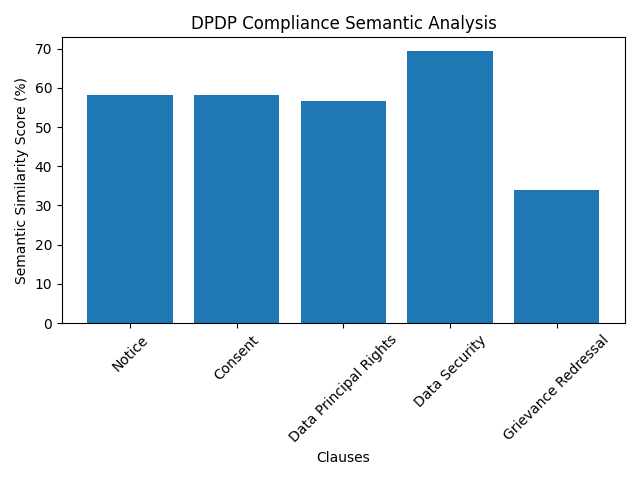
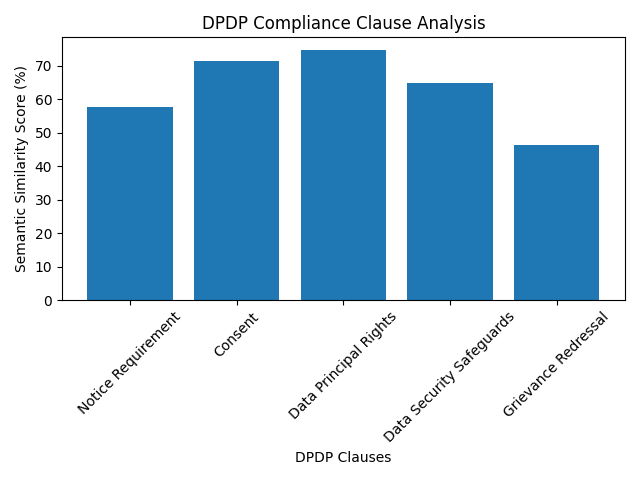
Completed backend architecture: added environment config, dataset-driven scoring, logging system, and production-ready structure

diff --git a/app/services/scoring_engine.py b/app/services/scoring_engine.py
@@ -1,27 +1,39 @@
 import matplotlib
 matplotlib.use("Agg")
 
+import os
+import json
+import numpy as np
+import matplotlib.pyplot as plt
 from sentence_transformers import SentenceTransformer
 from sklearn.metrics.pairwise import cosine_similarity
-import matplotlib.pyplot as plt
-import numpy as np
-import os
+
+from app.core.config import settings
 
 
-# Load lightweight semantic model
-model = SentenceTransformer("all-MiniLM-L6-v2")
+# ==============================
+# Load Semantic Model (from .env)
+# ==============================
+model = SentenceTransformer(settings.MODEL_NAME)
 
 
-DPDP_CLAUSES = {
-    "Notice": "The data fiduciary must provide clear notice before collecting personal data.",
-    "Consent": "Personal data must be collected only after obtaining free and informed consent.",
-    "Data Principal Rights": "Data principals have the right to access, correct and erase personal data.",
-    "Data Security": "Reasonable security safeguards must be implemented to protect personal data.",
-    "Grievance Redressal": "A grievance officer must be appointed to address complaints."
-}
+# ==============================
+# Load DPDP Clauses from JSON
+# ==============================
+def load_clauses():
+    base_dir = os.path.dirname(os.path.dirname(os.path.dirname(__file__)))
+    file_path = os.path.join(base_dir, "data", "dpdp_clauses.json")
+
+    with open(file_path, "r", encoding="utf-8") as f:
+        return json.load(f)
 
 
+# ==============================
+# Analyze Compliance
+# ==============================
 def analyze_compliance(policy_text: str):
+
+    clauses = load_clauses()
 
     results = {}
     missing = []
@@ -29,13 +41,28 @@ def analyze_compliance(policy_text: str):
     clause_names = []
     clause_scores = []
 
-    # Split into chunks
-    sentences = [s.strip() for s in policy_text.split(".") if len(s.strip()) > 15]
+    # Split policy into meaningful sentences
+    sentences = [
+        s.strip()
+        for s in policy_text.split(".")
+        if len(s.strip()) > 20
+    ]
 
-    # Encode all sentences once
+    if not sentences:
+        return {
+            "overall_score": 0,
+            "risk_level": "High Risk",
+            "section_analysis": {},
+            "missing_clauses": [],
+            "graph_path": ""
+        }
+
+    # Encode policy sentences once
     sentence_embeddings = model.encode(sentences)
 
-    for clause, clause_text in DPDP_CLAUSES.items():
+    for clause in clauses:
+        clause_title = clause["title"]
+        clause_text = clause["description"]
 
         clause_embedding = model.encode([clause_text])
 
@@ -44,29 +71,31 @@ def analyze_compliance(policy_text: str):
             sentence_embeddings
         )[0]
 
-        max_score = np.max(similarities) * 100
-        final_score = round(float(max_score), 2)
+        max_score = float(np.max(similarities)) * 100
+        final_score = round(max_score, 2)
 
-        clause_names.append(clause)
+        clause_names.append(clause_title)
         clause_scores.append(final_score)
         total_score += final_score
 
-        if final_score > 35:
-            results[clause] = {
+        # Use threshold from .env
+        if final_score >= settings.SIMILARITY_THRESHOLD:
+            results[clause_title] = {
                 "similarity_score": final_score,
                 "status": "Matched",
                 "matched_clause_text": clause_text
             }
         else:
-            missing.append(clause)
-            results[clause] = {
+            missing.append(clause_title)
+            results[clause_title] = {
                 "similarity_score": final_score,
                 "status": "Missing",
                 "matched_clause_text": None
             }
 
-    overall_score = round(total_score / len(DPDP_CLAUSES), 2)
+    overall_score = round(total_score / len(clauses), 2)
 
+    # Risk Classification
     if overall_score >= 75:
         risk = "Low Risk"
     elif overall_score >= 45:
@@ -74,7 +103,9 @@ def analyze_compliance(policy_text: str):
     else:
         risk = "High Risk"
 
+    # ==============================
     # Generate Graph
+    # ==============================
     if not os.path.exists("reports"):
         os.makedirs("reports")
 
@@ -82,9 +113,9 @@ def analyze_compliance(policy_text: str):
 
     plt.figure()
     plt.bar(clause_names, clause_scores)
-    plt.xlabel("Clauses")
+    plt.xlabel("DPDP Clauses")
     plt.ylabel("Semantic Similarity Score (%)")
-    plt.title("DPDP Compliance Semantic Analysis")
+    plt.title("DPDP Compliance Clause Analysis")
     plt.xticks(rotation=45)
     plt.tight_layout()
     plt.savefig(graph_path)
@@ -99,6 +130,9 @@ def analyze_compliance(policy_text: str):
     }
 
 
+# ==============================
+# Generate Recommendations
+# ==============================
 def generate_recommendations(result: dict):
 
     recommendations = []
@@ -110,7 +144,7 @@ def generate_recommendations(result: dict):
             )
     else:
         recommendations.append(
-            "The privacy policy demonstrates strong semantic alignment with DPDP Act 2023 provisions."
+            "The privacy policy demonstrates strong alignment with DPDP Act 2023 provisions."
         )
 
     return recommendations

diff --git a/app/main.py b/app/main.py
@@ -1,27 +1,46 @@
 from fastapi import FastAPI
 from fastapi.middleware.cors import CORSMiddleware
+
 from app.database.db import engine, Base
 from app.api.routes import router
+from app.core.logging_config import logger
 
-# Create DB tables
+
+# ==============================
+# Create Database Tables
+# ==============================
 Base.metadata.create_all(bind=engine)
 
+
+# ==============================
+# Create FastAPI App
+# ==============================
 app = FastAPI(
     title="DPDP Act 2023 Compliance Checker",
     version="4.0",
-    description="AI-powered DPDP Act Compliance Analyzer"
+    description="AI-powered semantic DPDP Act compliance analyzer"
 )
 
+
 # ==============================
-# CORS CONFIGURATION
+# Logging Startup
+# ==============================
+logger.info("DPDP Compliance Backend Started Successfully")
+
+
+# ==============================
+# CORS Configuration
 # ==============================
 app.add_middleware(
     CORSMiddleware,
-    allow_origins=["*"],   # later we can restrict to React URL
+    allow_origins=["*"],  # Restrict later in production
     allow_credentials=True,
     allow_methods=["*"],
     allow_headers=["*"],
 )
 
-# Include API routes
+
+# ==============================
+# Include API Routes
+# ==============================
 app.include_router(router)

diff --git a/app/services/crawler.py b/app/services/crawler.py
@@ -6,7 +6,7 @@ def fetch_privacy_policy(url: str):
 
     try:
         headers = {
-            "User-Agent": "Mozilla/5.0 (Windows NT 10.0; Win64; x64) AppleWebKit/537.36"
+            "User-Agent": "Mozilla/5.0"
         }
 
         response = requests.get(url, headers=headers, timeout=15)
@@ -16,20 +16,25 @@ def fetch_privacy_policy(url: str):
 
         soup = BeautifulSoup(response.text, "html.parser")
 
-        # Remove unwanted elements
+        # Remove junk elements
         for tag in soup(["script", "style", "nav", "footer", "header"]):
             tag.decompose()
 
-        # Extract only paragraph text
-        paragraphs = soup.find_all("p")
-        text = " ".join([p.get_text() for p in paragraphs])
+        # Extract text from paragraphs AND divs
+        paragraphs = soup.find_all(["p", "div"])
 
-        cleaned_text = " ".join(text.split())
+        text_chunks = []
 
-        print("Extracted length:", len(cleaned_text))  # DEBUG
+        for tag in paragraphs:
+            content = tag.get_text(strip=True)
+            if len(content) > 50:
+                text_chunks.append(content)
 
-        if len(cleaned_text) < 1000:
-            print("Content too small.")
+        cleaned_text = " ".join(text_chunks)
+
+        print("Extracted length:", len(cleaned_text))
+
+        if len(cleaned_text) < 500:
             return None
 
         return cleaned_text

diff --git a/app/core/logging_config.py b/app/core/logging_config.py
@@ -1,0 +1,18 @@
+import logging
+import os
+
+LOG_FOLDER = "logs"
+
+if not os.path.exists(LOG_FOLDER):
+    os.makedirs(LOG_FOLDER)
+
+logging.basicConfig(
+    level=logging.INFO,
+    format="%(asctime)s - %(levelname)s - %(name)s - %(message)s",
+    handlers=[
+        logging.FileHandler("logs/app.log"),
+        logging.StreamHandler()
+    ]
+)
+
+logger = logging.getLogger("dpdp_backend")

diff --git a/app/core/config.py b/app/core/config.py
@@ -1,0 +1,11 @@
+import os
+from dotenv import load_dotenv
+
+load_dotenv()
+
+class Settings:
+    MODEL_NAME = os.getenv("MODEL_NAME", "all-MiniLM-L6-v2")
+    SIMILARITY_THRESHOLD = float(os.getenv("SIMILARITY_THRESHOLD", 35))
+    DATABASE_URL = os.getenv("DATABASE_URL", "sqlite:///./dpdp_compliance.db")
+
+settings = Settings()